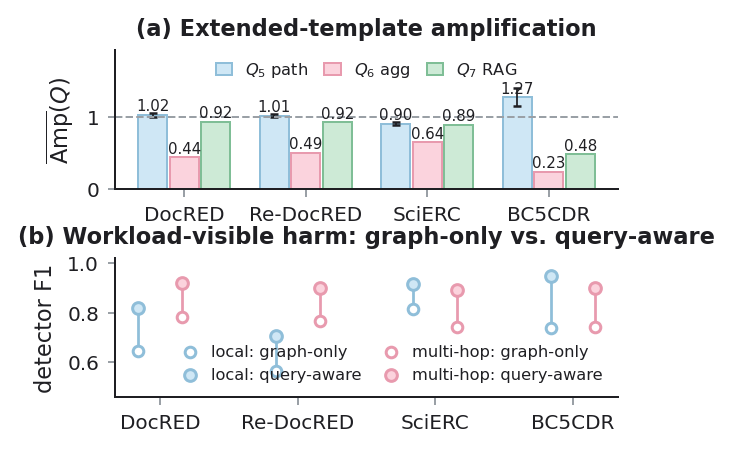
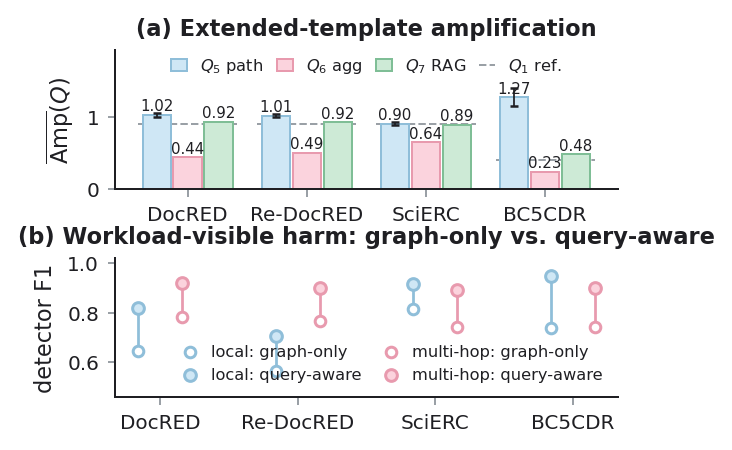
figs: per-corpus Q1 no-amplification reference in extended-query panel
Replace the single Amp=1 dashed line in the extended-query amplification
panel with each corpus's empirical Q1 lookup reference (the answer-set-equals-
edge-set query, which epsilon-damping places below 1), so the figure no longer
implies 1.0 is the neutral point.

Changed region(s): [[0.2104, 0.1244, 0.8415, 0.4978], [0.1803, 0.2178, 0.5109, 0.4978], [0.541, 0.4356, 0.6311, 0.4978]]

diff --git a/scripts/make_extqueries_figure.py b/scripts/make_extqueries_figure.py
@@ -22,6 +22,7 @@ sys.path.insert(0, str(ROOT))
 import matplotlib
 matplotlib.use("Agg")
 import matplotlib.pyplot as plt
+from matplotlib.lines import Line2D
 import numpy as np
 
 from graphguard.viz import style as _S
@@ -40,6 +41,16 @@ def main() -> int:
     for run, label in RUNS:
         ext[label] = json.loads((REP / f"extqueries_{run}.json").read_text())["summary"]
         reg[label] = json.loads((REP / f"regimes_{run}.json").read_text())["regimes"]
+
+    # Per-corpus no-amplification reference: the lookup query Q1, whose answer set
+    # equals the edge set by construction. epsilon-damping places it below 1
+    # (mean-of-ratios); its ratio-of-means value is exactly 1.
+    amp = json.loads((REP / "amp_ci.json").read_text())
+    q1_run = {"DocRED": "docred__deepseek-v4-flash__300d",
+              "Re-DocRED": "redocred__deepseek-v4-flash__300d",
+              "SciERC": "scierc__deepseek-v4-flash__100d",
+              "BC5CDR": "cdr__deepseek-v4-flash__300d"}
+    q1_ref = {l: amp[r]["Q1_single_edge"]["amp_mean"] for l, r in q1_run.items()}
 
     labels = [l for _, l in RUNS]
     x = np.arange(len(labels))
@@ -64,12 +75,17 @@ def main() -> int:
             ax1.errorbar(x + (i - 1) * w, vals, yerr=err, fmt="none",
                          ecolor=_S.BLACK, elinewidth=0.7, capsize=1.5)
         _S.annotate_bars(ax1, bars, vals, fmt="{:.2f}", fontsize=6)
-    ax1.axhline(1.0, color=_S.GRAY, linestyle="--", linewidth=0.8)
+    for i, l in enumerate(labels):
+        ax1.hlines(q1_ref[l], x[i] - 1.6 * w, x[i] + 1.6 * w,
+                   color=_S.GRAY, linestyle="--", linewidth=0.8, zorder=0)
     ax1.set_xticks(x); ax1.set_xticklabels(labels)
     ax1.set_ylabel(r"$\overline{\mathrm{Amp}}(Q)$")
     ax1.set_ylim(0, 1.92)
-    ax1.legend(fontsize=6.5, ncol=3, frameon=False, loc="upper center",
-               bbox_to_anchor=(0.5, 1.03), handlelength=1.0, columnspacing=1.0)
+    handles, labs = ax1.get_legend_handles_labels()
+    handles.append(Line2D([0], [0], color=_S.GRAY, linestyle="--", linewidth=0.8))
+    labs.append(r"$Q_1$ ref.")
+    ax1.legend(handles, labs, fontsize=6.5, ncol=4, frameon=False, loc="upper center",
+               bbox_to_anchor=(0.5, 1.06), handlelength=1.0, columnspacing=0.8)
     ax1.set_title("(a) Extended-template amplification", fontsize=9, fontweight="bold")
     _S.despine(ax1)
 
